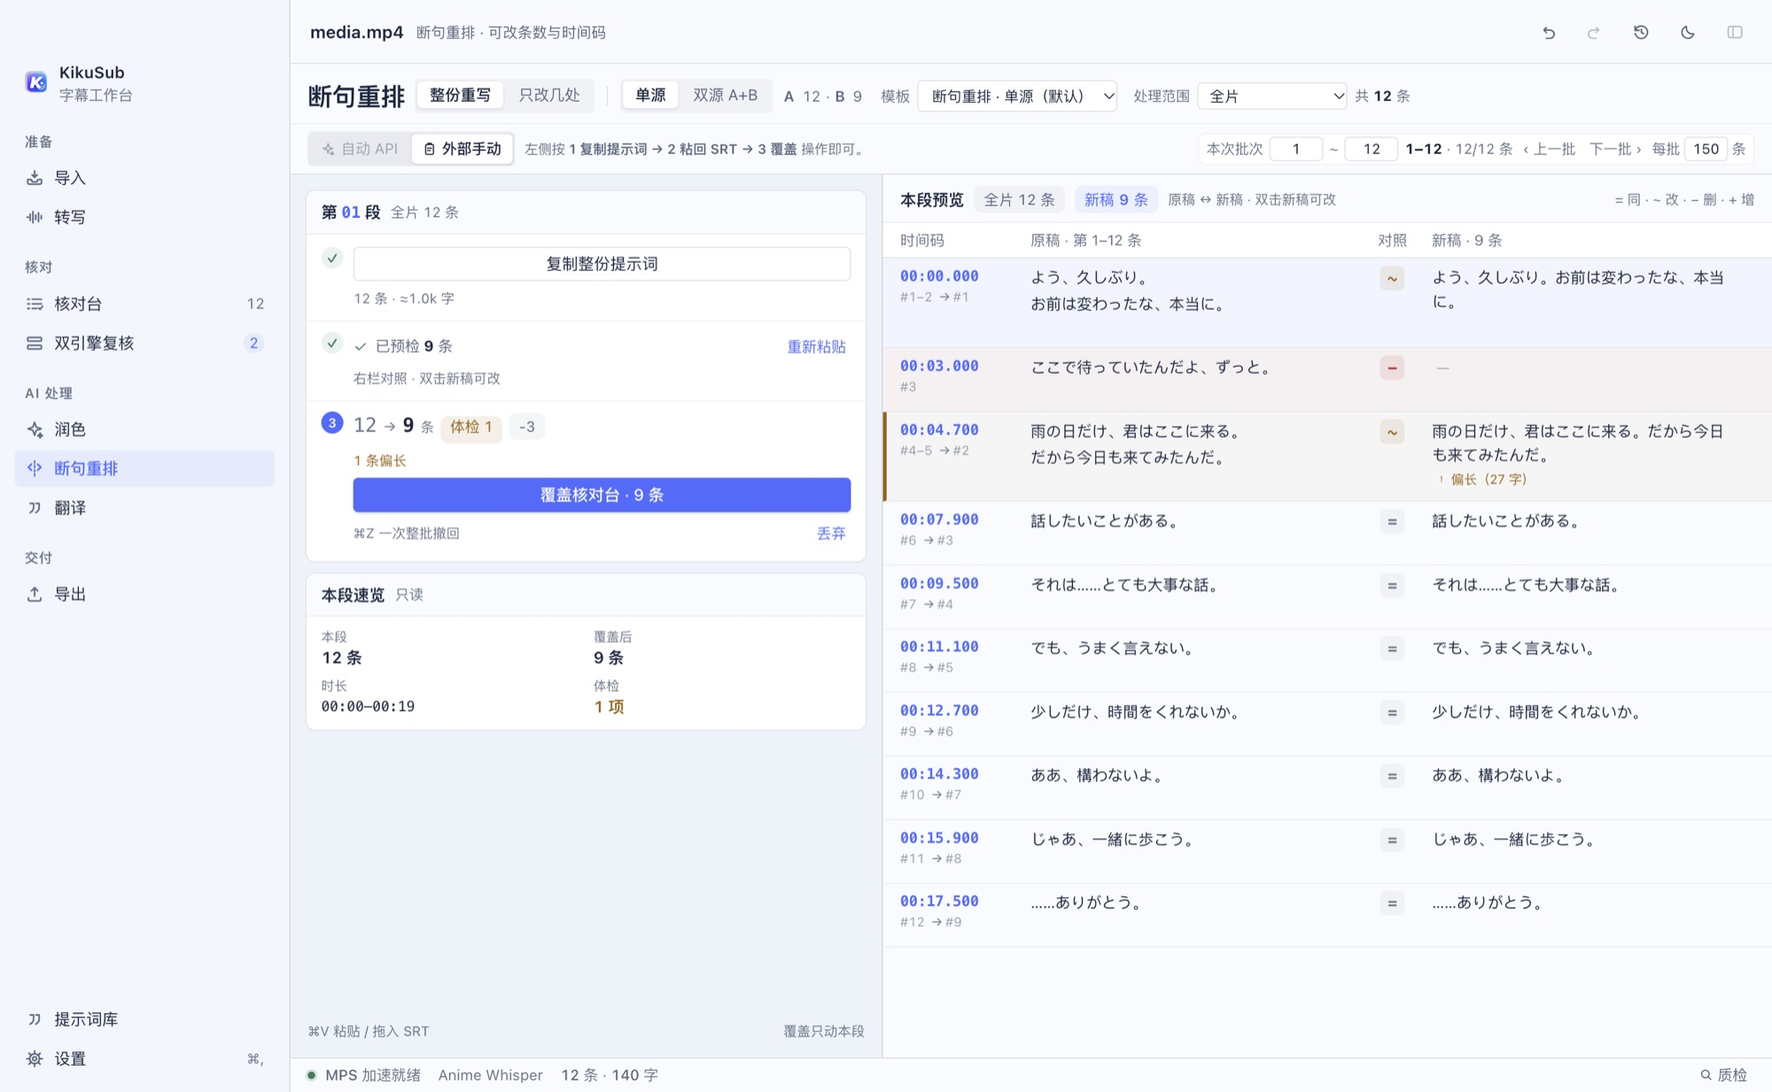
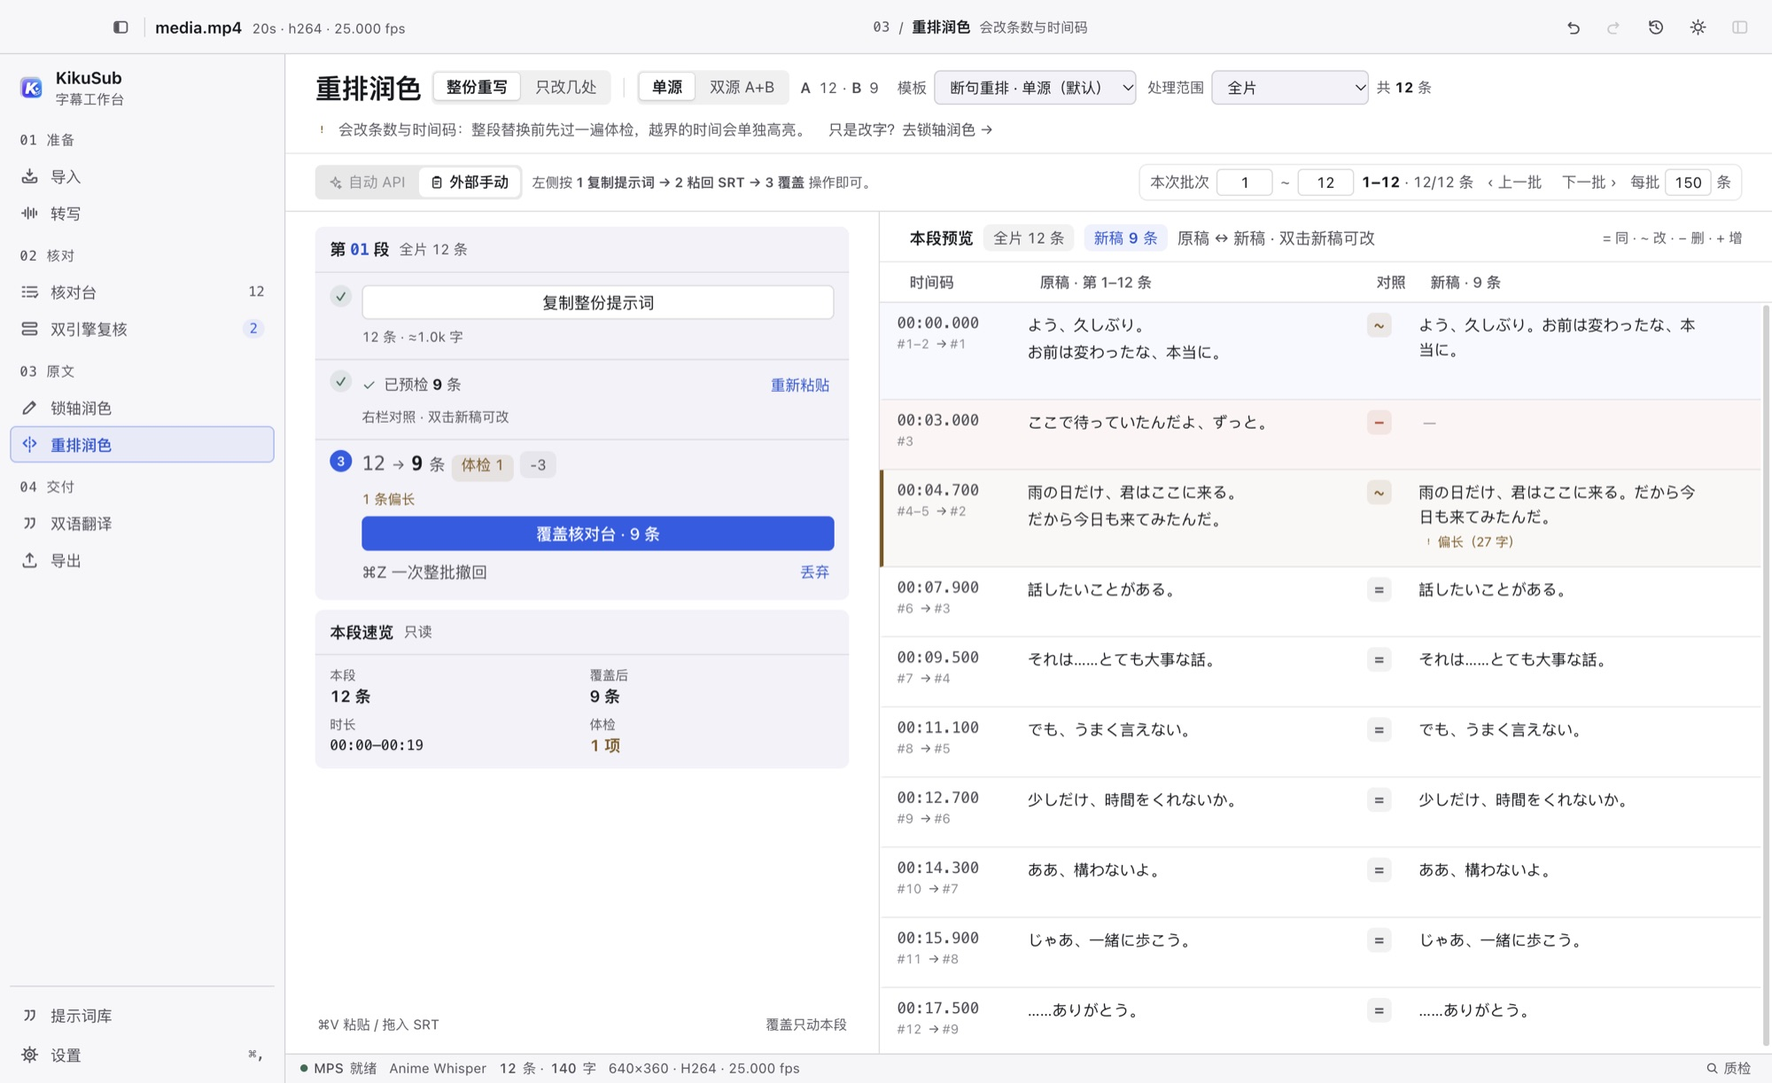
docs: README 换装到 Cue Script 界面（中英文同步）
9 张宣传图全部重出（旧图还是旧版三栏界面），文案补上第二阶段的新事实：

- 三页 AI 车道改名：锁轴润色 / 重排润色 / 双语翻译（lib/viewMeta.ts 是唯一来源）
- 外观三轴：明暗 × 6 套双模色板 × 字幕字体（皇家钴蓝 / 北欧极夜 / 玫瑰松木 /
  暮森护眼 / 拿铁与摩卡 / 暗房琥珀）
- 对比表新增「界面」一行；AI 一行改为三条独立车道
- 顶部加一段 Cue Script 视觉语言与四段导航说明

片源换了容器：原素材 mkv+flac 浏览器放不出，直接拍会挂「需代理」徽标，主图先
-c:v copy -c:a aac 无损转 MP4 再拍（画面同帧，徽标消失）。这条已写进
tools/shots/README.md，下次重出不会踩第二次。

diff --git a/README.md b/README.md
@@ -25,11 +25,16 @@
 
 > 图中片源为《言叶之庭》演示片段，展示日语原文、中文译文与逐帧波形核对状态。
 
+界面是一套叫 **Cue Script（录音台本）** 的桌面视觉语言：四段导航（01 准备 / 02 核对 /
+03 原文 / 04 交付）按你干活的顺序排，日间是纸白台面、夜间是纯中性深炭黑；**6 套双模色板**
+（皇家钴蓝 / 北欧极夜 / 玫瑰松木 / 暮森护眼 / 拿铁与摩卡 / 暗房琥珀）在「设置 → 外观与朗读」
+里点一下即换，明暗与色板是两个独立轴，字幕字体（黑体 / 明朝）再单独一个轴。
+
 ---
 
 ## KikuSub 解决什么问题
 
-市面上能做语音转文字的工具很多，但拿来处理**日语番剧、日剧、电影或 Galgame 录屏**时，往往会卡在三个地方：气声叹词被吞掉、字幕提前两秒冒出来、以及日语不够好时看着满屏假名根本无从校对。KikuSub 的设计全程围绕这三件事。
+市面上能做语音转文字的工具很多，但拿来处理**日语番剧、日剧、电影或 Galgame 录屏**时，往往会卡在三个地方：气声叹词被吞掉、字幕提前两秒冒出来、以及日语不够好时看着满屏假名根本无从校对。KikuSub 的设计全程围绕这三件事；转写之后，它在同一张台面上把「逐句核对 → 锁轴润色 → 双语翻译 → 成片交付」也接了下去，不用换工具。
 
 ### 1. 日语对话专用：有背景音、气声和快语速时，时间轴依然卡准开口那一帧
 
@@ -47,7 +52,15 @@
 - **听不清时写个提示就行**：遇到两个引擎都没听准、甚至整句空白的气声词，在右侧输入你听到的空耳或罗马音线索（例如「听起来像 sugoi / 声音很小」），AI 会结合前后各 3 句台词帮你推回最合理的日文表达。
 - **改动的决定权永远在你手里**：AI 生成的修正、润色和翻译都先以对照提案呈现，不会擅自覆盖原稿；如果你需要处理敏感台词或纯离线运行，还可以把单句纠偏单独指向本机 LM Studio / Ollama，不经过任何云端服务。
 
-### 3. 从字幕到带章节的双语成片，一个软件直接交差
+### 3. AI 三页各管一件事：锁轴润色 / 重排润色 / 双语翻译
+
+![锁轴润色：A 是核对台当前稿、B 是另一引擎参考稿，AI 终稿逐条对照，采纳才落稿](docs/images/polish-view.jpg)
+
+- **先锁轴，再谈改字**：「锁轴润色」只动文字，条数与时间码 1:1 不动，应用后回核对台逐句对照；真觉得断句本身错了，才去「重排润色」那条车道，那一条明确允许改条数与时间码。
+- **一页说清「现在在改什么」**：三页顶部是同一条工作条——模板、处理范围、本次批次（`1 ~ 12`、每批 150 条）都在同一条线上，改哪一段、动哪几条一眼可见；下部应用条常驻「改动 N · 采纳 N」，一次整批 `⌘Z` 退回。
+- **没有 Key 也能干完**：不配 API Key 时默认落在「外部手动」通道，复制提示词给任意网页版模型，粘回来自动对齐；想本地化就把整条链路指向本机 LM Studio / Ollama。
+
+### 4. 从字幕到带章节的双语成片，一个软件直接交差
 
 ![导出页：支持纯字幕或烧录硬字幕、软字幕封装，内置 6 套常用样式并可实时预览画面效果](docs/images/export.jpg)
 
@@ -61,9 +74,9 @@
 
 | 1. 导入 | 2. 转写 | 3. 核对与翻译 | 4. 导出 |
 | --- | --- | --- | --- |
-| 直接拖入视频、音频或已有字幕；浏览器内核放不出的 MKV / HEVC 格式，可在黑框中央一键生成轻量监看代理 | 选「日语自然对话」或「逐字精确时间轴」，按需勾选「强 BGM / 歌曲人声分离」或只转某一段；复杂调参收在底部抽屉，日常不用管 | 在核对台拖拽波形改时间轴，或切到双引擎复核与 AI 处理页完成校对、断句重排与中文翻译 | 导出 SRT / VTT / TXT，或直接按设定分辨率与码率输出带双语字幕和章节的成片 |
+| 直接拖入视频、音频或已有字幕；浏览器内核放不出的 MKV / HEVC 格式，可在黑框中央一键生成轻量监看代理 | 选「日语自然对话」或「逐字精确时间轴」，按需勾选「强 BGM / 歌曲人声分离」或只转某一段；复杂调参收在底部抽屉，日常不用管 | 在核对台拖拽波形改时间轴，或切到双引擎复核与 AI 三页（锁轴润色 / 重排润色 / 双语翻译）完成校对、重排与中文翻译 | 导出 SRT / VTT / TXT，或直接按设定分辨率与码率输出带双语字幕和章节的成片 |
 
-![翻译页：支持接入 API 自动翻译，也支持一键复制提示词给网页版大模型后粘贴回填](docs/images/translate-view.jpg)
+![双语翻译：译文走平行轨，原文与时间轴都不动，采纳后回核对台逐句对照](docs/images/translate-view.jpg)
 
 ---
 
@@ -74,7 +87,8 @@
 | 日语口语与气声 | 专为日语影视微调的双引擎 + 句首对齐校准 | 全靠人工听打与打轴 | 通用模型，气声和轻声句容易漏 |
 | 没听清怎么救 | 第二引擎对照 + 空耳线索结合上下文还原 | 反复慢放盲猜 | 只能网页里自己硬改 |
 | 核对体验 | 视频 + 可缩放波形 + 50 步统一撤销 + 质检队列 | 界面偏老，波形与视频配置繁琐 | 多为纯表格，很难逐帧卡时间轴 |
-| AI 润色 / 翻译 | 可接云端 API、本机大模型，或免费复制给网页 AI | 需手动导出文本折腾 | 需上传原片/音频到别人服务器 |
+| AI 润色 / 翻译 | 锁轴润色（保条数/时间码）、重排润色（可改时间轴）、双语翻译三条独立车道；可接云端 API、本机大模型，或免费复制给网页 AI | 需手动导出文本折腾 | 需上传原片/音频到别人服务器 |
+| 界面 | 6 套双模色板 + 明暗独立轴 + 黑体/明朝字幕字体；单人长会话、键盘优先 | 主题单一，暗色多为后期补丁 | 固定一套网页皮肤 |
 | 隐私与费用 | 全本地免费开源，不设账号、不按分钟收费 | 免费 | 按时长计费，素材出本机 |
 
 ![设置页：硬件加速状态、各模型体积占用与实测性能直观对比](docs/images/settings.jpg)
@@ -126,6 +140,7 @@
 - **50 步统一撤销线**：字幕增删、时间拖动、AI 采纳、质检状态与导出设置共用同一条历史记录，随时点选任意历史节点直达或 `⌘Z` 回退。
 - **语音对照与角色音色克隆**：默认使用 macOS 系统日语语音快速朗读对照；也可截取视频里某角色 3–10 秒原声，通过本地 OmniVoice 模型进行零样本声音克隆朗读（按需下载、空闲 5 分钟自动卸载）。
 - **章节与时刻点**：随时在播放头插时刻点或将选区设为章节，波形顶部以色带与旗标呈现，导出时可写入 MP4 / MKV 容器，也支持只导出某一章节片段并自动归零时间轴。
+- **外观三轴独立**：明暗（跟随系统 / 日间校样 / 夜间配音）、色板（皇家钴蓝 / 北欧极夜 / 玫瑰松木 / 暮森护眼 / 拿铁与摩卡 / 暗房琥珀）、字幕字体（黑体 / 明朝）各管各的，互不牵连——想换字幕字体不必连整套配色一起换。标题栏的外观按钮一点即切日夜，`auto` 只在设置里。
 
 </details>
 
@@ -134,11 +149,12 @@
 
 ![润色与对照：支持单源或双源三栏对比，按批次应用](docs/images/polish-view.jpg)
 
-- **严格的时间轴保护**：无论是内置 API 生成还是外部网页复制回填，AI 提案都不包含时间戳——软件按源指纹（`digest`）与条号回填文本，确保源字幕改动后旧提案自动失效、不会错位覆盖。如果希望重新划分句长与时间轴，可使用专门的「断句重排」车道。
+- **严格的时间轴保护**：无论是内置 API 生成还是外部网页复制回填，AI 提案都不包含时间戳——软件按源指纹（`digest`）与条号回填文本，确保源字幕改动后旧提案自动失效、不会错位覆盖。如果希望重新划分句长与时间轴，可使用专门的「重排润色」车道。
+- **三条车道各管一件事**：「锁轴润色」保条数与时间码 1:1，只改文字；「重排润色」允许重划句长与时间轴；「双语翻译」走平行轨，原文与时间轴都不动。三条车道共用同一套模板库与提案校验，应用之后都回核对台逐句对照。
 - **双通道随意切换**：不配 API Key 时默认落在「外部手动」，支持自动分批复制提示词并在回填时按时间戳智能对齐（不强求网页模型输出完全一致的条数）。
 - **只补待译，不动已核对的译文**：一章逐句过完后，检查器会提示「N 条待译」。点「补译 N 条」只把这几条（带全片条号与前后文）复制给外部模型，粘回后按条号**只写这几条**，其余译文一个字节不改，`⌘Z` 一步撤回整批。
 - **本地密钥安全与判定独立覆盖**：API Key 使用本机主密钥做 AES-256-GCM 加密存储；「设置 → AI 与技能 → 进阶」中可单独为单句判定配置一套本机模型（如 LM Studio / Ollama 的无审查微调模型），并自动校准 `2048 / 4096 / 8192` 上下文档位，与全局润色/翻译配置互不干扰。
-- **Agent 技能包 + 命令行**：支持一键安装技能到 `~/.agents/skills/kikusub-subtitle`；设置页「AI 与技能 → 命令行工具」会把随包 `kikusub` 软链到 `~/.local/bin`。外部 AI 助手可用 `kikusub project / cues / cue / listen` 读工程与逐句证据，用 `kikusub propose` 把润色/翻译/结构建议/断句重排提交到审阅队列；提案提交后界面 2 秒内提示并刷新，应用仍由人点（契约见 [`docs/contracts/ai-proposal.md`](docs/contracts/ai-proposal.md)）。
+- **Agent 技能包 + 命令行**：支持一键安装技能到 `~/.agents/skills/kikusub-subtitle`；设置页「AI 与技能 → 命令行工具」会把随包 `kikusub` 软链到 `~/.local/bin`。外部 AI 助手可用 `kikusub project / cues / cue / listen` 读工程与逐句证据，用 `kikusub propose` 把锁轴润色 / 双语翻译 / 结构建议 / 重排润色的提案提交到审阅队列；提案提交后界面 2 秒内提示并刷新，应用仍由人点（契约见 [`docs/contracts/ai-proposal.md`](docs/contracts/ai-proposal.md)）。
 
 ![设置 → AI 与技能：高级本地判定与上下文配置收于折叠区](docs/images/settings-ai.jpg)
 

diff --git a/README_EN.md b/README_EN.md
@@ -25,6 +25,8 @@
 
 > The footage is a *The Garden of Words* demo clip, showing the Japanese source, Chinese translation and frame-by-frame waveform review.
 
+The interface is a desktop visual language called **Cue Script**: four navigation stages (01 Prepare / 02 Review / 03 Source / 04 Deliver) ordered the way the work actually happens, paper-white by day and neutral charcoal by night. **Six dual-mode palettes** (Royal Cobalt / Nordic Night / Rose Pine / Everforest / Latte & Mocha / Darkroom Amber) switch with one click under Settings → Appearance, and the three preference axes are independent: light/dark, palette, and cue font (sans / Mincho).
+
 ---
 
 ## What KikuSub is for
@@ -47,7 +49,15 @@ Plenty of tools turn speech into text, but they tend to stall in three places wh
 - **Can't hear it? Just describe it**: when neither engine gets a breathy word right — or the whole line is blank — type what you heard (a misheard kana or romaji hint, e.g. "sounds like sugoi / very quiet") into the side panel, and the AI uses three lines of context on each side to recover the most plausible Japanese.
 - **You always make the call**: AI corrections, polish and translations arrive as side-by-side proposals; nothing overwrites your script on its own. If you are working with sensitive dialogue or want a fully offline run, point single-line correction at local LM Studio / Ollama and no cloud service is involved.
 
-### 3. From subtitles to a chaptered bilingual video in one app
+### 3. Three AI lanes, each with one job: locked-axis polish, re-segment polish, bilingual translation
+
+![Locked-axis polish: A is the current review-desk script, B is the other engine's reference, and the AI draft is compared line by line — nothing lands until you accept](docs/images/polish-view.jpg)
+
+- **Lock the axis first, then talk about wording**: "Locked-axis polish" changes text only — cue count and timecodes stay 1:1 — and returns you to the review desk line by line. Only when the segmentation itself is wrong do you move to "Re-segment polish", the lane that explicitly may change cue count and timecodes.
+- **One bar tells you what is being changed**: all three lanes share the same work bar — template, range and this batch (`1 ~ 12`, 150 per batch) sit on one line, so which slice and which lines are in play is visible at a glance. The bottom bar always shows "changed N · accepted N", and one `⌘Z` reverts the whole batch.
+- **It works with no API key**: with no key configured the app defaults to the "External manual" lane — copy the prompt to any web model and paste the reply back; alignment is automatic. Point the whole chain at local LM Studio / Ollama to keep it offline.
+
+### 4. From subtitles to a chaptered bilingual video in one app
 
 ![Export: subtitles only, burned-in hard subs or soft-subtitle packaging, with six built-in styles previewed live on the video](docs/images/export.jpg)
 
@@ -61,9 +71,9 @@ Plenty of tools turn speech into text, but they tend to stall in three places wh
 
 | 1. Import | 2. Transcribe | 3. Review & translate | 4. Export |
 | --- | --- | --- | --- |
-| Drag in video, audio or existing subtitles. For MKV / HEVC files the browser engine cannot play, one click in the black frame builds a lightweight viewing proxy | Pick "Japanese natural dialogue" or "Per-syllable precise timeline", and enable "strong BGM / song vocal separation" or just transcribe a range as needed. Detailed parameters stay in a drawer at the bottom until you need them | Drag the waveform in the review desk to adjust timing, or switch to dual-engine review and the AI pages for proofreading, re-segmentation and Chinese translation | Export SRT / VTT / TXT, or render a finished video at your chosen resolution and bitrate with bilingual subtitles and chapters |
+| Drag in video, audio or existing subtitles. For MKV / HEVC files the browser engine cannot play, one click in the black frame builds a lightweight viewing proxy | Pick "Japanese natural dialogue" or "Per-syllable precise timeline", and enable "strong BGM / song vocal separation" or just transcribe a range as needed. Detailed parameters stay in a drawer at the bottom until you need them | Drag the waveform in the review desk to adjust timing, or switch to dual-engine review and the three AI lanes (locked-axis polish / re-segment polish / bilingual translation) for proofreading, re-segmentation and Chinese translation | Export SRT / VTT / TXT, or render a finished video at your chosen resolution and bitrate with bilingual subtitles and chapters |
 
-![Translate: connect an API for automatic translation, or copy the prompt to a web LLM in one click and paste the reply back](docs/images/translate-view.jpg)
+![Translate: the translation rides a parallel track, leaving the source and timeline untouched; accept it and proofread line by line in the review desk](docs/images/translate-view.jpg)
 
 ---
 
@@ -74,7 +84,8 @@ Plenty of tools turn speech into text, but they tend to stall in three places wh
 | Japanese speech and breaths | Two engines tuned for Japanese film + onset alignment | All manual typing and timing | General models; breaths and quiet lines get dropped |
 | Rescuing an unclear line | Second-engine comparison + misheard-kana hints with context | Slow it down and guess | Edit by hand in a web form |
 | Review experience | Video + zoomable waveform + 50-step unified undo + QA queue | Dated UI, fiddly waveform and video setup | Mostly a plain table; frame-accurate timing is hard |
-| AI polish / translation | Cloud API, local LLM, or free copy-paste to a web AI | Export the text and wrestle with prompts | Upload your footage / audio to someone's server |
+| AI polish / translation | Locked-axis polish (keeps cue count and timecodes), re-segment polish (may change the timeline) and bilingual translation as three separate lanes; cloud API, local LLM, or free copy-paste to a web AI | Export the text and wrestle with prompts | Upload your footage / audio to someone's server |
+| Interface | Six dual-mode palettes, independent light/dark and cue-font axes; built for long solo sessions and keyboard-first work | Single theme; dark mode usually bolted on | One fixed web skin |
 | Privacy and cost | Fully local, free and open source; no account, no per-minute billing | Free | Billed per minute; your media leaves your machine |
 
 ![Settings: hardware acceleration status, per-model disk usage and measured performance at a glance](docs/images/settings.jpg)
@@ -126,6 +137,7 @@ If you are a heavy-tuning fansub user, run local LLMs, or want to build from sou
 - **One 50-step undo line**: subtitle add/delete, timing drags, AI adoption, QA state and export settings share one history; click any step to jump there, or `⌘Z` to go back.
 - **Voice reference and character voice cloning**: macOS system Japanese voices read lines aloud by default; or take a 3–10 second sample of a character from the video and clone it zero-shot with the local OmniVoice model (downloaded on demand, unloaded after 5 idle minutes).
 - **Chapters and cue points**: insert a cue point at the playhead or turn a selection into a chapter at any time; they appear as bands and flags on the waveform, can be written into the MP4 / MKV container on export, and a single chapter can be exported with the timeline rebased to zero.
+- **Three independent appearance axes**: light/dark (follow system / Daylight Proof / Night Dubbing), palette (Royal Cobalt / Nordic Night / Rose Pine / Everforest / Latte & Mocha / Darkroom Amber) and cue font (sans / Mincho) each answer one question — wanting a different cue font no longer drags the whole colour scheme along. The title-bar button flips day/night in one click; `auto` lives in Settings only.
 
 </details>
 
@@ -134,7 +146,8 @@ If you are a heavy-tuning fansub user, run local LLMs, or want to build from sou
 
 ![Polish and comparison: single-source or dual-source three-column comparison, applied in batches](docs/images/polish-view.jpg)
 
-- **Strict timeline protection**: whether proposals come from a built-in API or a web model pasted back in, AI proposals carry no timestamps — the app fills text back by source fingerprint (`digest`) and cue index, so proposals expire automatically once the source subtitles change and can never land in the wrong place. To re-split lines and timing, use the dedicated "Re-segment" lane.
+- **Strict timeline protection**: whether proposals come from a built-in API or a web model pasted back in, AI proposals carry no timestamps — the app fills text back by source fingerprint (`digest`) and cue index, so proposals expire automatically once the source subtitles change and can never land in the wrong place. To re-split lines and timing, use the dedicated "Re-segment polish" lane.
+- **Three lanes, three jobs**: "Locked-axis polish" keeps cue count and timecodes 1:1 and changes text only; "Re-segment polish" may redraw cue boundaries and timing; "Bilingual translation" rides a parallel track with the source and timeline untouched. All three share the same template library and proposal validation, and all return you to the review desk after applying.
 - **Switch channels freely**: with no API key configured, the app defaults to "External manual", which batches prompt copying and aligns pasted results by timestamp on the way back (it does not require the web model to return the exact same number of lines).
 - **Local key security and independent judgement override**: API keys are encrypted with a local master key using AES-256-GCM. Under Settings → AI & skills → Advanced, single-line judgement can point at its own local model (e.g. an uncensored fine-tune in LM Studio / Ollama) with automatic calibration of `2048 / 4096 / 8192` context tiers, independent of the global polish / translation configuration.
 - **Agent skill**: install with one click to `~/.agents/skills/kikusub-subtitle` and generate standard polish or translation proposals from the current subtitle file in an external AI assistant (contract: [`docs/contracts/ai-proposal.md`](docs/contracts/ai-proposal.md)).
